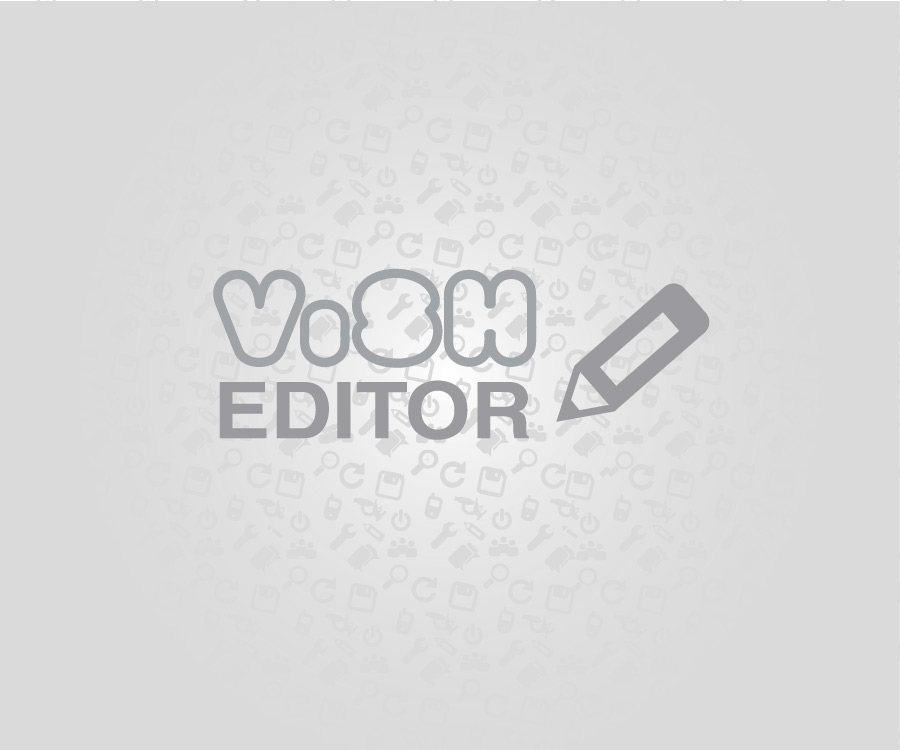
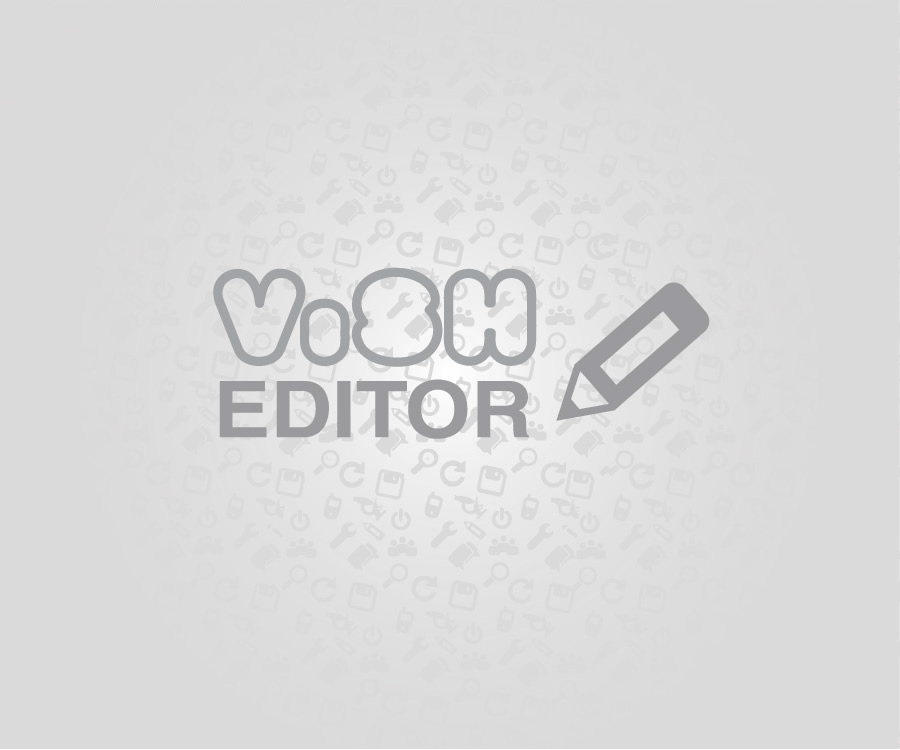
some small css changes

diff --git a/stylesheets/nicEditor.css b/stylesheets/nicEditor.css
@@ -11,8 +11,8 @@
 }
 
 .nicEdit-panelContain {
-	border-bottom-right-radius: 15px;
-	border-bottom-left-radius: 15px;
+	border-bottom-top-radius: 15px;
+	border-bottom-top-radius: 15px;
 	background-color: transparent;
 	overflow: hidden;
 	width: 100%;
@@ -22,13 +22,13 @@
 .nicEdit-panel {
 	background-color: #fff !important;
 	border: 1px solid #ccc;
-	width: 740px;
-	margin:0px 2px 2px 50px; /* top margin, right margin, bottom margin, left margin */
-	padding-left: 60px;
+	width: 790px;
+	margin:0px 2px 2px 0px; /* top margin, right margin, bottom margin, left margin */
+	padding-left: 108px;
 	zoom: 1;
 	overflow: hidden;
-	border-bottom-right-radius: 15px;
-	border-bottom-left-radius: 15px;
+	border-top-right-radius: 15px;
+	border-top-left-radius: 15px;
 }
 
 .nicEdit-button {

diff --git a/stylesheets/styles.css b/stylesheets/styles.css
@@ -29,14 +29,12 @@ body {
 }
 
 .slides {
-	background-color:rgb(249, 249, 249);
+	background-image:url(../images/background.jpg);
   width: 100%;
   height: 100%;
   left: 0;
   top: 0;
-  
   position: absolute;
-
   -webkit-transform: translate3d(0, 0, 0);
   border-radius: 20px;
   -moz-border-radius: 20px;
@@ -53,7 +51,7 @@ body {
   height: 600px;
 
   left: 50px;
-  top: 30px;
+  top: 40px;
   
   padding: 40px 60px;
 
